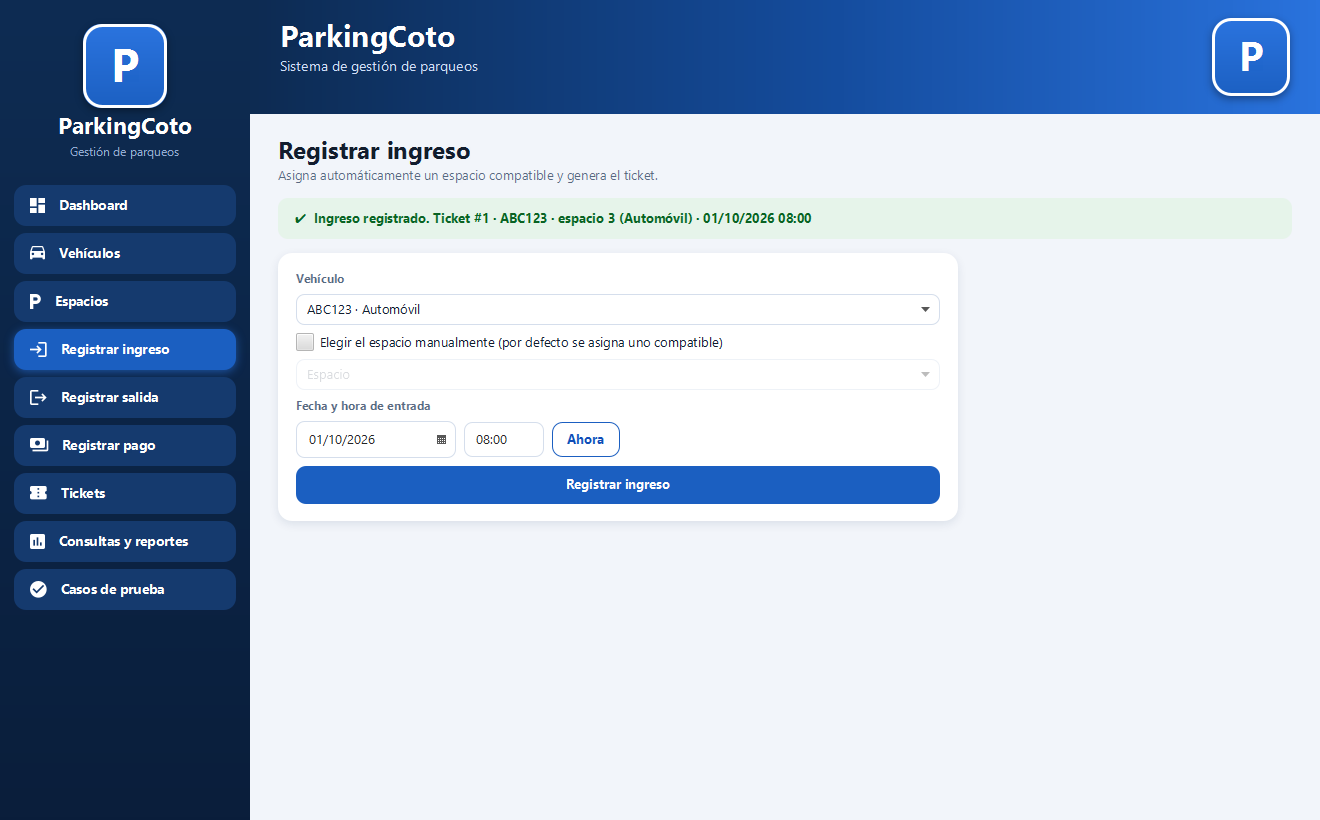
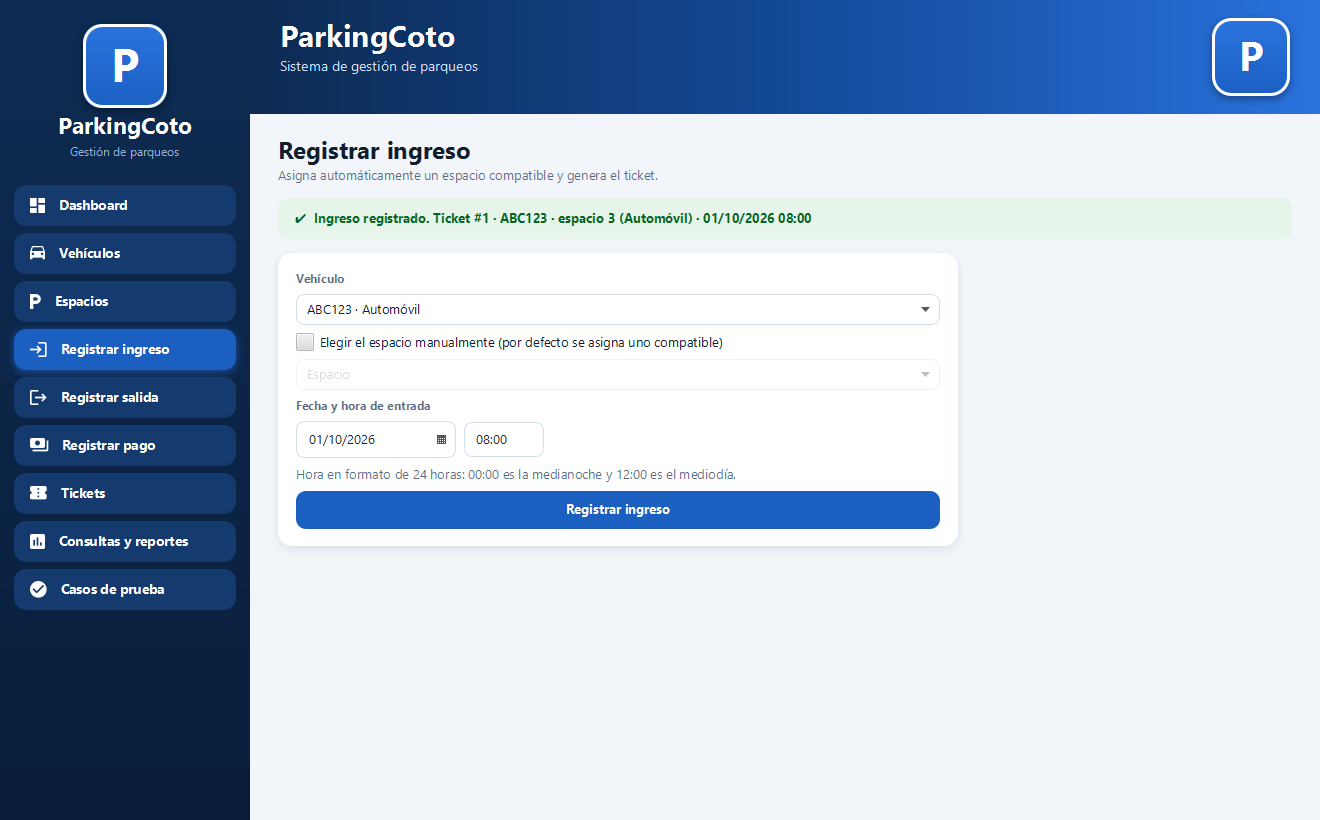
Remove the Ahora buttons and tidy the reports cards
The Ahora buttons are gone from the entry, exit and payment screens; the fields start with the time the program was opened and the user types the time. A hint explains that the time uses 24 hours. The two cards at the top of the reports screen show the title above the value so nothing is cut. Screenshots regenerated.

Changed region(s): [[0.2174, 0.5183, 0.7144, 0.6707]]

diff --git a/parking-coto/src/main/java/cr/ac/una/parking/coto/ui/ExitController.java b/parking-coto/src/main/java/cr/ac/una/parking/coto/ui/ExitController.java
@@ -67,11 +67,6 @@ public class ExitController implements Refreshable {
     }
 
     @FXML
-    private void onNow() {
-        exitTime.setNow();
-    }
-
-    @FXML
     private void onQuickExit(ActionEvent event) {
         try {
             Vehicle vehicle = vehicleCombo.getValue();

diff --git a/parking-coto/src/main/java/cr/ac/una/parking/coto/ui/PaymentController.java b/parking-coto/src/main/java/cr/ac/una/parking/coto/ui/PaymentController.java
@@ -73,11 +73,6 @@ public class PaymentController implements Refreshable {
     }
 
     @FXML
-    private void onNow() {
-        paymentTime.setNow();
-    }
-
-    @FXML
     private void onRegisterPayment() {
         try {
             ParkingTicket ticket = ticketCombo.getValue();

diff --git a/parking-coto/src/main/java/cr/ac/una/parking/coto/ui/EntryController.java b/parking-coto/src/main/java/cr/ac/una/parking/coto/ui/EntryController.java
@@ -72,11 +72,6 @@ public class EntryController implements Refreshable {
     }
 
     @FXML
-    private void onNow() {
-        entryTime.setNow();
-    }
-
-    @FXML
     private void onRegisterEntry() {
         try {
             Vehicle vehicle = vehicleCombo.getValue();
